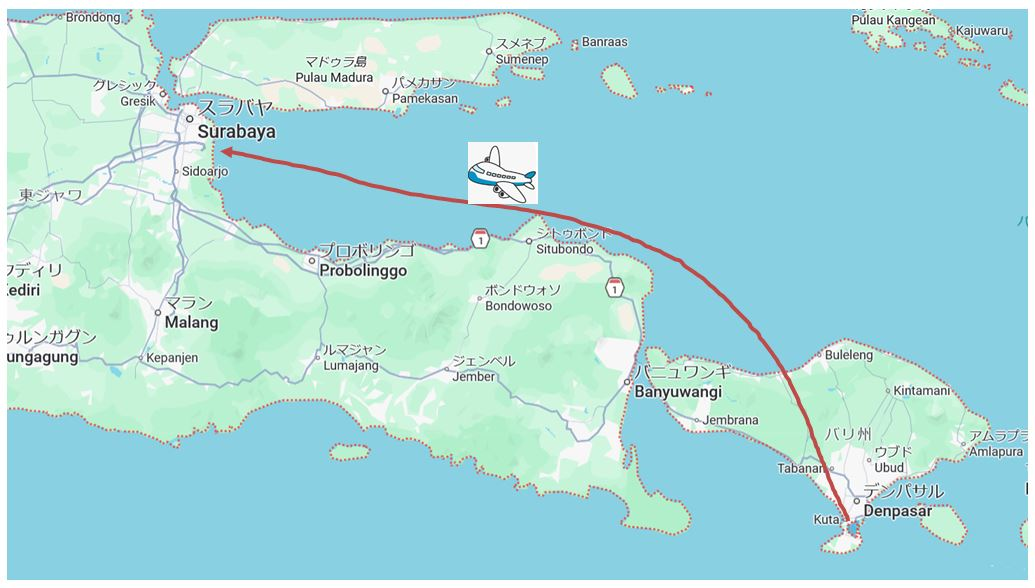
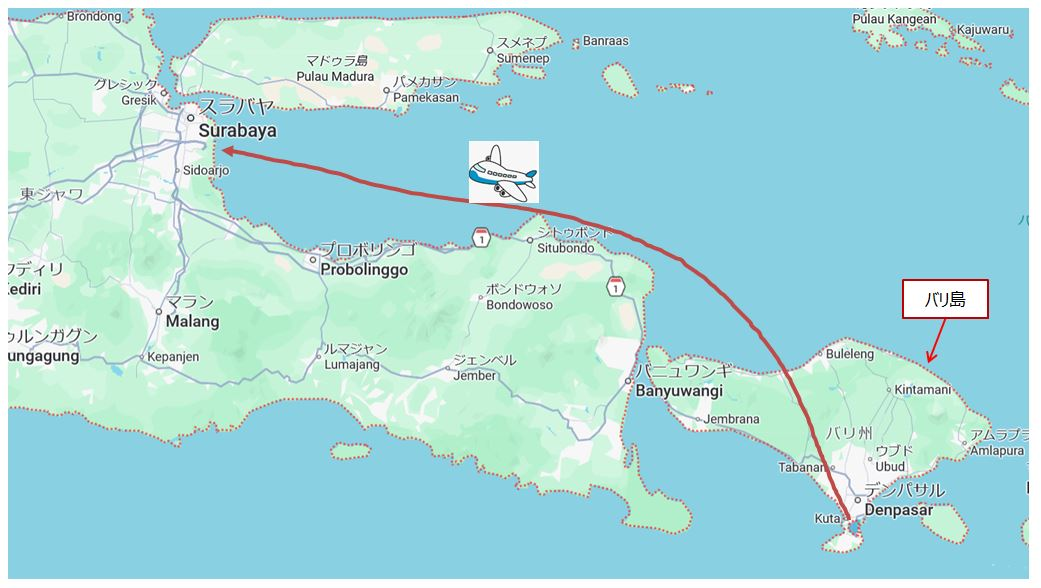
Add files via upload

diff --git a/uchip/20260902_1/index.html b/uchip/20260902_1/index.html
@@ -17,7 +17,7 @@
 <meta content="text/html; charset=utf-8" http-equiv="content-type"><title>20250923_1</title></head><body style="color: rgb(0, 0, 102); background-color: white;" alink="#000099" link="#000099" vlink="#990099"><big style="color: rgb(0, 51, 51); font-style: italic; font-weight: bold;"><big>
 <br>
 <span style="margin-left: 50px;"></span>
-<font color="black" face="メイリオ,Meiryo" size="+2">  2026（R8） 9月2日～8日　○○の旅　その１</font>
+<font color="black" face="メイリオ,Meiryo" size="+2">  2026（R8） 9月2日～8日　インドネシアの旅　その１</font>
 <hr align="left" color="crimson" size="10" width="1000">
 <div style="position: absolute; top: 45px; left: 450px;"></div>
 </big></big><span style="color: rgb(0, 51, 51);">　<span style="color: black;">
@@ -224,13 +224,15 @@
 <br>
 <br><br><br><br><br>
 　次に、両替と昼食に、街にでます。<br>
-<br>
 　しかし、車とバイクだらけで歩いてる人が全然いません。<br>
 　アジアの街を歩くときは、道路の横断は現地人の近く<br>
 　で同じタイミングで歩くのが常套手段なんですが、それ<br>
 　もできず、そして横断歩道に信号もなく、歩くのにこれ<br>
 　だけストレスたまる国はなかったっす。<br>
-　すぐにスラバヤが嫌いになりました。<br>
+　交差点、全部走って渡ったがな。地元の人は一体どない<br>
+　してんねん？　市内も車かバイクで移動？<br>
+　　　　　　　　　　　　　　　　　　　　　　　　　　　　　　すぐにスラバヤが嫌いになりました。<br>
+<br>
 <br>
 
 </span><img style="width: 640px; height: 480px;" alt="" src="IMG_20260903_131554940-s.jpg" align="left"><br><span style="color: black;">
@@ -337,31 +339,322 @@
 <br>
 
 
+</span><img style="width: 480px; height: 640px;" alt="" src="IMG_20260903_143935352-s.jpg" align="left"><br>
+<br><span style="color: black;">
+<br>
+　コタ駅の近くに旧市街が広がります。<br>
+<br>
+　海に近いスラバヤは植民地時代から拓けてた街で、当時の建物も残っ<br>
+　てるとのこと。<br>
+<br>
+　ただ、新市街の歩きで疲れ果て、かつ空気の悪さと真上からの太陽で、<br>
+　もうふらふら。<br>
+<br>
+<br>
+<br><br><br><br><br><br>
+<br>
+<br>
+<br>
+<br>
+<br>
+<br><br><br><br>
+<br>
 
+</span><img style="width: 640px; height: 480px;" alt="" src="IMG_20260903_143051724-s.jpg" align="left"><br><span style="color: black;">
+<br>
+<br>
+　と、面白そうな街並みが見えてきました。<br>
+<br>
+<br>
+<br>
+<br>
+<br>
+<br>
+<br>
+<br>
+<br><br><br><br><br><br>
+<br>
+<br>
+<br>
 
+</span><img style="width: 640px; height: 480px;" alt="" src="IMG_20260903_143110764-s.jpg" align="left"><br><span style="color: black;">
+<br>
+<br>
+　港町ということで、魚市場ですね。<br>
+<br>
+<br>
+<br>
+<br>
+<br>
+<br>
+<br>
+<br>
+<br><br><br><br><br><br>
+<br>
+<br>
+<br>
+</span><img style="width: 640px; height: 480px;" alt="" src="IMG_20260903_143142927-s.jpg" align="left"><br><span style="color: black;">
+<br>
+<br>
+　これが入口か。<br>
+<br>
+<br>
+<br>
+<br>
+<br>
+<br>
+<br>
+<br>
+<br><br><br><br><br><br>
+<br>
+<br>
+<br>
+</span><img style="width: 640px; height: 480px;" alt="" src="IMG_20260903_143221275-s.jpg" align="left"><br><span style="color: black;">
+<br>
+　外にもかなり店がありましたが、市場の中も魚屋だら<br>
+　け！<br>
+<br>
+　こんなに魚の需要があるんや！<br>
+<br>
+<br>
+<br>
+<br>
+<br>
+<br>
+<br><br><br><br><br><br>
+<br>
+<br>
+<br>
+</span><img style="width: 640px; height: 480px;" alt="" src="IMG_20260903_143456790-s.jpg" align="left"><br><span style="color: black;">
+<br>
+<br>
+　奥に進んで行くと、次は香辛料の店だらけ。特化がす<br>
+　ごいわ。<br>
+<br>
+<br>
+<br>
+<br>
+<br>
+<br>
+<br>
+<br><br><br><br><br><br>
+<br>
+<br>
+<br>
+</span><img style="width: 640px; height: 480px;" alt="" src="IMG_20260903_143428901-s.jpg" align="left"><br><span style="color: black;">
+<br>
+　あまりの疲労で、コタ駅までベチャと呼ばれてる三輪<br>
+　の自転車タクシーに乗ろうとしたんですが、ハウマッ<br>
+　チさえ通じないので乗るのをあきらめて歩いて戻りま<br>
+　した。<br>
+<br>
+　後で確認したら、もうちょっと頑張って歩いたら色々<br>
+　面白い町並みもあったみたいなんですが、行けずに残<br>
+　念。<br>
+<br>
+<br>
+<br><br><br><br><br><br>
+<br>
+<br>
+<br>
+</span><img style="width: 640px; height: 480px;" alt="" src="IMG_20260903_181435275-s.jpg" align="left"><br><span style="color: black;">
+<br>
+　宿でひと休みして、グブン駅に向います。<br>
+<br>
+　スラバヤとはおさらばして、東に列車で２時間ほどの<br>
+　マディウンという街に向います。<br>
+<br>
+　改札入ると、ちょっとした庭のようなスペースが。<br>
+<br>
+　他の国の駅みたいに、ごちゃごちゃしてない印象です。<br>
+<br>
+<br>
+<br><br><br><br><br><br>
+<br>
+<br>
+<br>
+</span><img style="width: 640px; height: 480px;" alt="" src="IMG_20260903_182155594-s.jpg" align="left"><br><span style="color: black;">
+<br>
+　構内も、街の規模からしたら小さ目ですね。<br>
+<br>
+　インドネシアの特徴としては、ほとんどの駅に大屋根<br>
+　がかかってます。<br>
+<br>
+<br>
+<br>
+<br>
+<br>
+<br>
+<br><br><br><br><br><br>
+<br>
+<br>
+<br>
+</span><img style="width: 640px; height: 480px;" alt="" src="IMG_20260903_181745644-s.jpg" align="left"><br><span style="color: black;">
+<br>
+　これが乗る列車。<br>
+<br>
+　インドネシア国鉄はディーゼル機関車が客車を引っ張<br>
+　るスタイルですね。<br>
+<br>
+　機関車も客車も、ほとんどこの形式の組み合わせで面<br>
+　白くなかったっす。<br>
+<br>
+<br>
+<br>
+<br><br><br><br><br><br>
+<br>
+<br>
+<br>
+</span><img style="width: 640px; height: 480px;" alt="" src="IMG_20260903_181841860-s.jpg" align="left"><br><span style="color: black;">
+<br>
+　車内の様子。<br>
+<br>
+　これが普通車で、なんとお見合い形式の座席！想定外<br>
+　でした。<br>
+<br>
+　で、運悪く反対向きの席でした。<br>
+<br>
+<br>
+<br>
+<br>
+<br><br><br><br><br><br>
+<br>
+<br>
+<br>
 
+<img style="width: 489px; height: 368px;" alt="" src="IMG_20260903_184056181-s.jpg" align="left"><img style="width: 489px; height: 368px;" alt="" src="IMG_20260903_184104088-s.jpg" hspace="10"><br>
+　　　　　いよいよ出発。めちゃめちゃ警笛鳴らしまくります。スピードも結構出してます。<br>
+<br>
 
-
-
-
-
-
-
-
-
-
-
-
-
-
-
-
-
+</span><img style="width: 480px; height: 640px;" alt="" src="IMG_20260903_191819818-s.jpg" align="left"><br>
+<br><span style="color: black;">
+<br>
+<br>
+　車内を探検しますが、食堂スペースがありました。レンチンした<br>
+　弁当やカップ麺を売るコーナーとそれを食べる席があります。<br>
+<br>
+　ちなみに、ここで注文したら席まで持ってきてくれます。<br>
+<br>
+<br>
+<br>
+<br>
+<br><br><br><br><br><br>
+<br>
+<br>
+<br>
+<br>
+<br>
+<br><br><br><br>
+<br>
+</span><img style="width: 480px; height: 640px;" alt="" src="IMG_20260903_191817093-s.jpg" align="left"><br>
+<br><span style="color: black;">
+<br>
+　で、なんとその横には、さすがイスラム教国、礼拝スペースも！<br>
+<br>
+　何カ国かのイスラム教の国で列車に乗りましたが、このスペース<br>
+　を見たのは初めてです。駅にあるのは見たけど、走ってたら方角<br>
+　変わるのに大丈夫なのか？<br>
+<br>
+<br>
+<br>
+<br>
+<br><br><br><br><br><br>
+<br>
+<br>
+<br>
+<br>
+<br>
+<br><br><br><br>
+<br>
+</span><img style="width: 640px; height: 480px;" alt="" src="IMG_20260903_191552780-s.jpg" align="left"><br><span style="color: black;">
+<br>
+　街にはモスクがありますね。<br>
+<br>
+　緯度の関係か、急に日が暮れる感じでした。<br>
+<br>
+<br>
+<br>
+<br>
+<br>
+<br>
+<br>
+<br><br><br><br><br><br>
+<br>
+<br>
+<br>
+</span><img style="width: 480px; height: 640px;" alt="" src="IMG_20260903_192339850-s.jpg" align="left"><br>
+<br><span style="color: black;">
+<br>
+　車内販売もまわってきます。民族衣装っぽいのを着たお姉さんが<br>
+　担当しています。<br>
+<br>
+　昔、雷鳥に乗ってた地元の厚化粧した車販のおばちゃんたちとは<br>
+　大違いです。　（コンプラ違反発言？）<br>
+<br>
+　今思えば、多分今の私より若かった？！<br>
+<br>
+<br>
+<br><br><br><br><br><br>
+<br>
+<br>
+<br>
+<br>
+<br>
+<br><br><br><br>
+<br>
+</span><img style="width: 640px; height: 480px;" alt="" src="IMG_20260903_204007072-s.jpg" align="left"><br><span style="color: black;">
+<br>
+　定刻にマディウンに到着。<br>
+<br>
+　時間は正確です。このあとも、延着はなかったです。<br>
+<br>
+<br>
+<br>
+<br>
+<br>
+<br>
+<br>
+<br><br><br><br><br><br>
+<br>
+<br>
+<br>
+</span><img style="width: 640px; height: 480px;" alt="" src="IMG_20260903_204056590-s.jpg" align="left"><br><span style="color: black;">
+<br>
+　インドネシアのサボ。<br>
+<br>
+　岩佐模型さん、鑑定できるようによく見ておいてくだ<br>
+　さいね。<br>
+<br>
+　上に書いてるのは列車の愛称みたいです。<br>
+<br>
+　インドネシアではほとんどの列車に愛称がついてまし<br>
+　た。<br>
+<br>
+<br><br><br><br><br><br>
+<br>
+<br>
+<br>
+</span><img style="width: 640px; height: 480px;" alt="" src="IMG_20260903_204251100-s.jpg" align="left"><br><span style="color: black;">
+<br>
+　着かれた体をひきずって、駅から歩いて１０分ぐらい<br>
+　のホテルに到着。<br>
+<br>
+　事前に調べてた地図アプリのおかげで迷わず着きまし<br>
+　た。文明の力はすごいな。<br>
+<br>
+　ビールでも飲もうと近くのスーパーに行きましたが、<br>
+　売ってない！さすがイスラム教国。<br>
+<br>
+<br>
+<br><br><br><br><br><br>
+<br>
+<br>
+<br>
 
 
 <br>
 <span style="margin-left: 50px;"></span>
-<font color="black" face="メイリオ,Meiryo" size="+2">  　　　　　　　　　　　　　　　　　　続く！</font>
+<font color="black" face="メイリオ,Meiryo" size="+2">  　　　　　　　　　　　　　　　　　　その２　に続く！</font>
 
 
 
